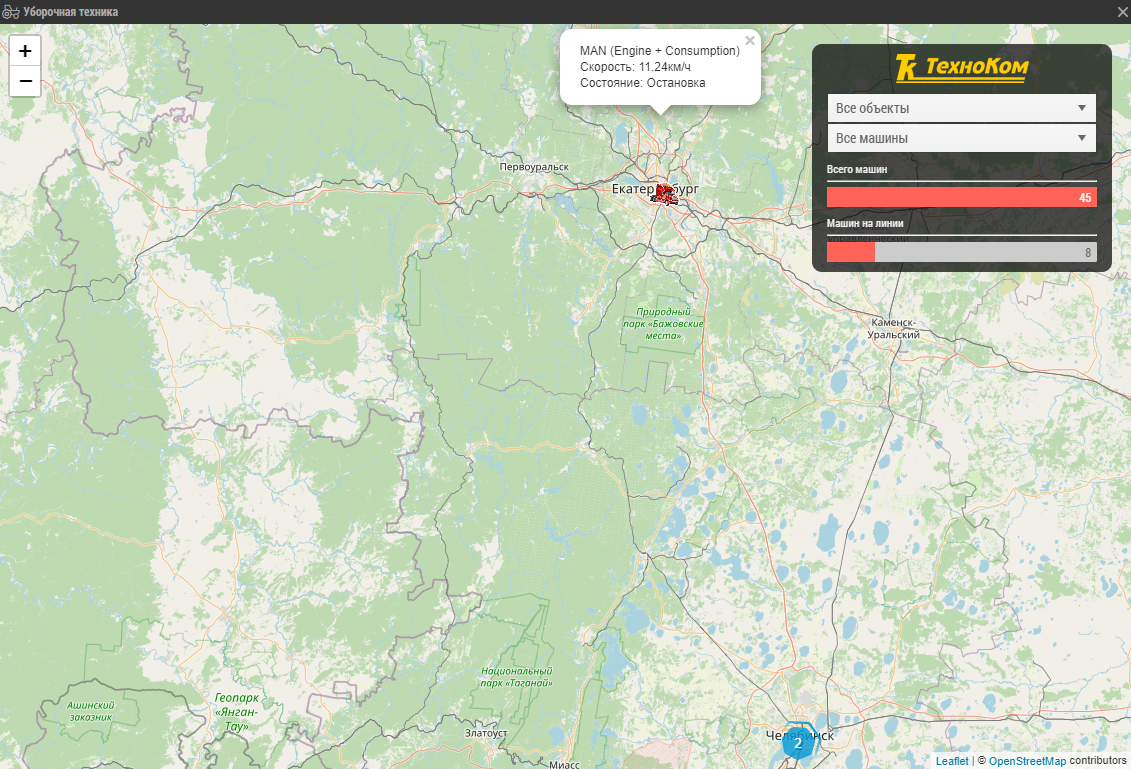
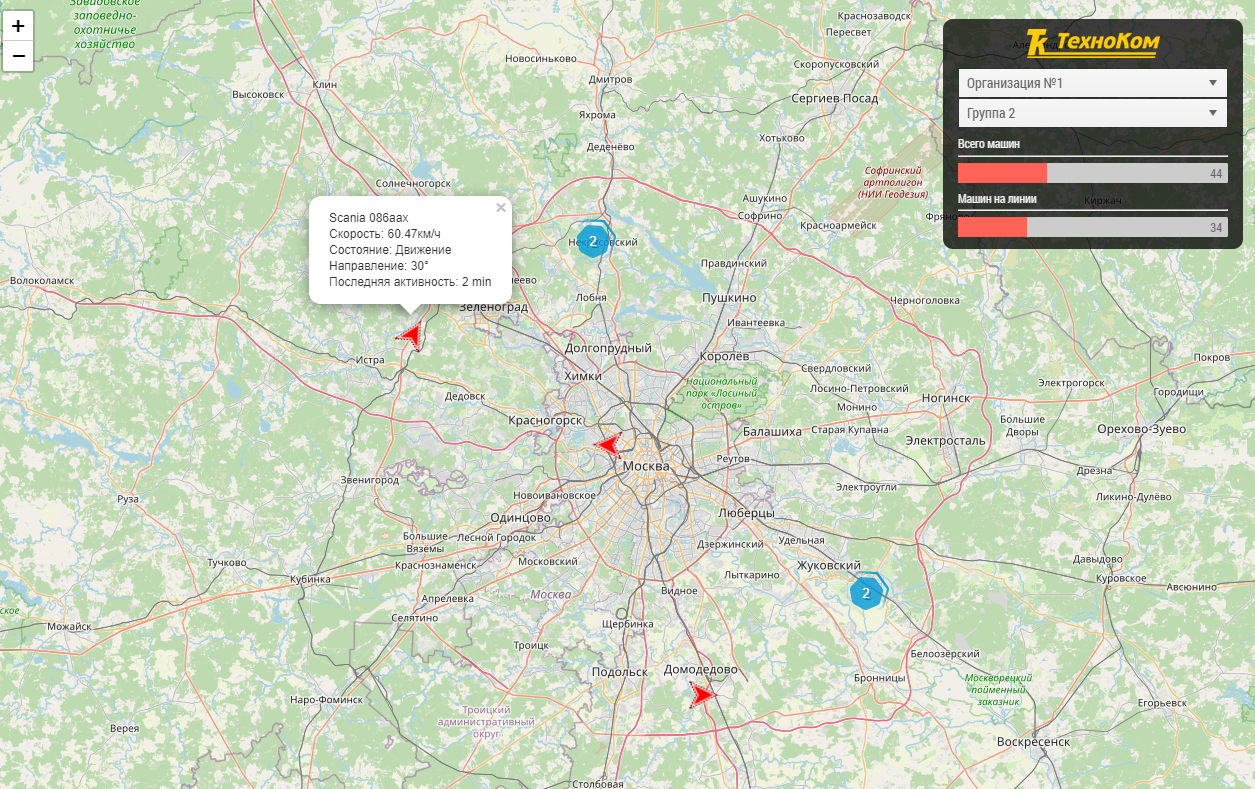
fix: исправлены ошибки с выборкой устройств, добавлено поле "последняя активность", переделан таймер обновления (теперь новый таймер устанавливается после окончания обновления данных)

diff --git a/AppTemplates/CarMap/index.html b/AppTemplates/CarMap/index.html
@@ -119,6 +119,7 @@
     let mainGroupsViewModel; //объекты для меню первого уровня
     let nestedGroupsViewModel; //объекты для меню второго уровня
     let statsViewModel;
+    let currentGroupDevicesList = [];
 
     let timeout = parm.Settings['RefreshTime'];
     if (!!!timeout) timeout = 60;
@@ -134,9 +135,11 @@
         updateL1Dropdown();
         updateL2Dropdown();
         updateDevices().then((online) => {
+            updateGroupList(currentGroupId);
             onlineDevices = online;
             drawSubgroupDevices(onlineDevices);
-            mapObject.map.fitBounds(bounds);
+            if (bounds.length > 0)
+                mapObject.map.fitBounds(bounds);
             setUpdateTimer(timeout);
         });
         initStats();
@@ -201,6 +204,7 @@
     function onMainGroupChange() {
         updateL2Dropdown();
         currentGroupId = mainGroupsViewModel.get("ID");
+        updateGroupList(currentGroupId);
         drawSubgroupDevices(onlineDevices);
         if (bounds.length > 0)
             mapObject.map.fitBounds(bounds);
@@ -208,24 +212,28 @@
 
     function onGroupChange() {
         currentGroupId = nestedGroupsViewModel.get("ID");
+        updateGroupList(currentGroupId);
         drawSubgroupDevices(onlineDevices);
         if (bounds.length > 0)
             mapObject.map.fitBounds(bounds);
     }
 
-    function drawSubgroupDevices(devices, groupID) {
+    function updateGroupList(groupID) {
         if (!!!groupID)
             groupID = currentGroupId;
-        let children = getChildren(allDevices, groupID);
+        currentGroupDevicesList = getChildren(allDevices, groupID);
+    }
+
+    function drawSubgroupDevices(devices) {
         let childrenToDraw = [];
-        children.forEach(function (device) {
+        currentGroupDevicesList.forEach(function (device) {
             let found = devices.find(a => a.ID == device.ID);
             if (!!found) {
                 childrenToDraw.push(found);
             }
         });
         statsViewModel.set('carsInGroupOnline', childrenToDraw.length);
-        statsViewModel.set('totalCarsInGroup', children.length);
+        statsViewModel.set('totalCarsInGroup', currentGroupDevicesList.length);
         drawDevices(childrenToDraw);
     }
 
@@ -246,7 +254,8 @@
                     LastPosition: device.LastPosition,
                     Course: device.Course,
                     Speed: device.Speed,
-                    Plate: device.Plate
+                    Plate: device.Plate,
+                    LastTime: device.LastTime
                 };
                 newDev.Marker = createMarker(newDev);
                 newDevices.push(newDev);
@@ -266,19 +275,11 @@
         //добавляем маркеры на карту у новых устройств
         newDevices.forEach(function (device) {
             mapObject.devicesLayer.addLayer(device.Marker);
-            currentDevices.push({
-                ID: device.ID,
-                Name: device.Name,
-                Marker: device.Marker,
-                LastPosition: device.LastPosition,
-                Course: device.Course,
-                Speed: device.Speed,
-                Plate: device.Plate
-            });
+            currentDevices.push(device);
         });
         //сдвигаем маркер для обновившихся устройств
         changedDevices.forEach(function (device) {
-            device.Marker.setLatLng([device.LastPosition.Lat, device.LastPosition.Lng],);
+            device.Marker.setLatLng([device.LastPosition.Lat, device.LastPosition.Lng]);
             device.Marker.setRotationAngle(device.Course);
         });
         //добавляем координаты для позиционирования карты
@@ -306,8 +307,11 @@
                 url: parm.Urls.Service + '/GetOnlineInfoAll?session=' + parm.Token + "&schemaID=" + parm.Organization.UID,
                 success: function (onlineInfoAll) {
                     let online = Object.entries(onlineInfoAll).filter(a => !!a && !!a[1] && !!a[1].LastPosition).map(item => {
-                        let plateNumber = allDevicesWithPlates.find(b => b.ID == item[0]).Properties.find(a => a.Name == "VehicleRegNumber").Value;
-                        if (plateNumber == 'undefined')
+                        let deviceInfo = allDevicesWithPlates.find(b => b.ID == item[0]);
+                        let plateNumber;
+                        if (!!deviceInfo)
+                            plateNumber = deviceInfo.Properties.find(a => a.Name == "VehicleRegNumber").Value;
+                        else
                             plateNumber = "";
                         return {
                             LastPosition: item[1].LastPosition,
@@ -316,7 +320,8 @@
                             Speed: item[1].Speed,
                             DeviceInfo: allDevices.Items.find(a => a.ID == item[0]),
                             ID: item[0],
-                            Plate: plateNumber
+                            Plate: plateNumber,
+                            LastTime: item[1]._LastData
                         }
                     });
                     resolve(online);
@@ -337,13 +342,35 @@
     }
 
     function setUpdateTimer(timeoutSeconds) {
-        setInterval(() => {
-                updateDevices().then((result) => {
-                    onlineDevices = result;
-                    drawSubgroupDevices(result, currentGroupId);
-                });
-            },
-            timeoutSeconds * 1000);
+        setTimeout(() => {
+            updateByTimeout(timeoutSeconds);
+        }, timeoutSeconds * 1000, timeoutSeconds);
+    }
+
+    function updateByTimeout(timeoutSeconds) {
+        new Promise((resolve) => {
+            updateDevices().then((result) => {
+                onlineDevices = result;
+                drawSubgroupDevices(result);
+                resolve();
+            })
+        }).then(() => {
+            setTimeout(() => {
+                updateByTimeout(timeoutSeconds);
+            }, timeoutSeconds * 1000, timeoutSeconds);
+        });
+    }
+
+    function calculateTimeDifference(oldDate) {
+        let currentDate = new Date();
+        let difference = (currentDate - new Date(oldDate)) / 1000;
+        if (difference < 60)
+            return "<1 min";
+        else if (difference < 3600)
+            return ">" + round(difference / 60, 0) + " min";
+        else if (difference < 86400)
+            return ">" + round(difference / 3600, 0) + " h";
+        else return ">" + round(difference / 86400, 0) + " d";
     }
 </script>
 </body>

diff --git a/AppTemplates/CarMap/js/map.js b/AppTemplates/CarMap/js/map.js
@@ -1,6 +1,6 @@
 function InitMap(id, maxClusterRadius) {
     let mapObject = Object();
-    mapObject.map = L.map(id).setView([51.505, -0.09], 13);
+    mapObject.map = L.map(id).setView([55.173702, 61.383591], 13);
 
     L.tileLayer('https://{s}.tile.openstreetmap.org/{z}/{x}/{y}.png', {
         maxZoom: 18,
@@ -33,13 +33,17 @@ function createMarker(item) {
     let carIcon = L.icon({
         iconUrl: iconPath,
         iconSize: [32, 32],
-        popupAnchor: [-3, -76],
+        popupAnchor: [-3, -16],
     });
-    let marker = L.marker([item.LastPosition.Lat, item.LastPosition.Lng], {
+    let lat = item.LastPosition.Lat;
+    let lng = item.LastPosition.Lng;
+    let marker = L.marker([lat, lng], {
         icon: carIcon,
         rotationAngle: item.Course,
         rotationOrigin: "center center"
     });
-    marker.bindPopup(item.Name + " " + item.Plate + "<br>Скорость: " + round(item.Speed, 2) + "км/ч<br>Состояние: " + getStateName(item.Speed));
+    let info = item.Name + " " + item.Plate + "<br>Скорость: " + round(item.Speed, 2) + "км/ч<br>Состояние: " + getStateName(item.Speed) + "<br>Направление: " + round(item.Course, 0) + "°<br>Последняя активность: " + calculateTimeDifference(item.LastTime);
+    marker.bindPopup(info);
+    marker.bindTooltip(info);
     return marker;
 }
